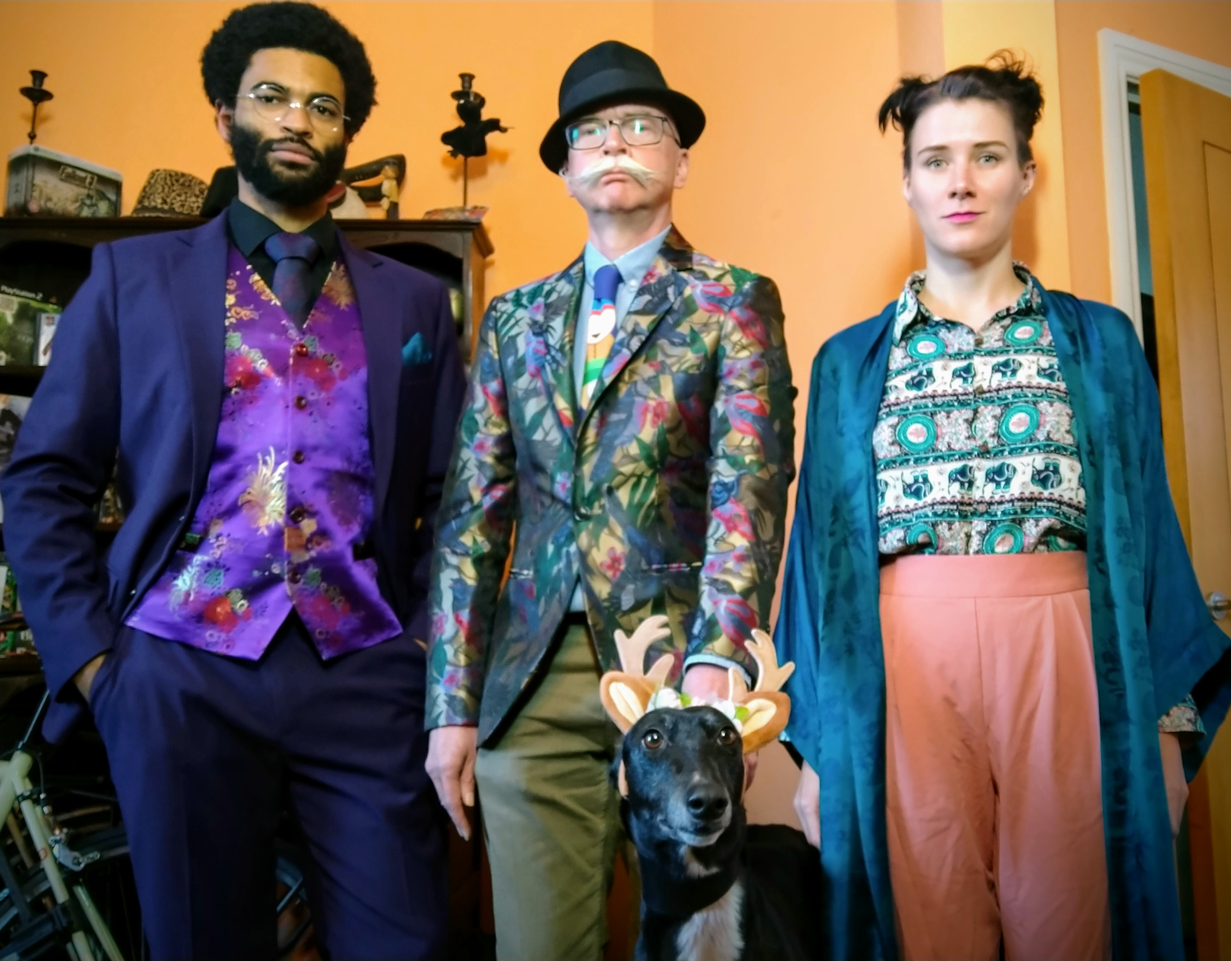
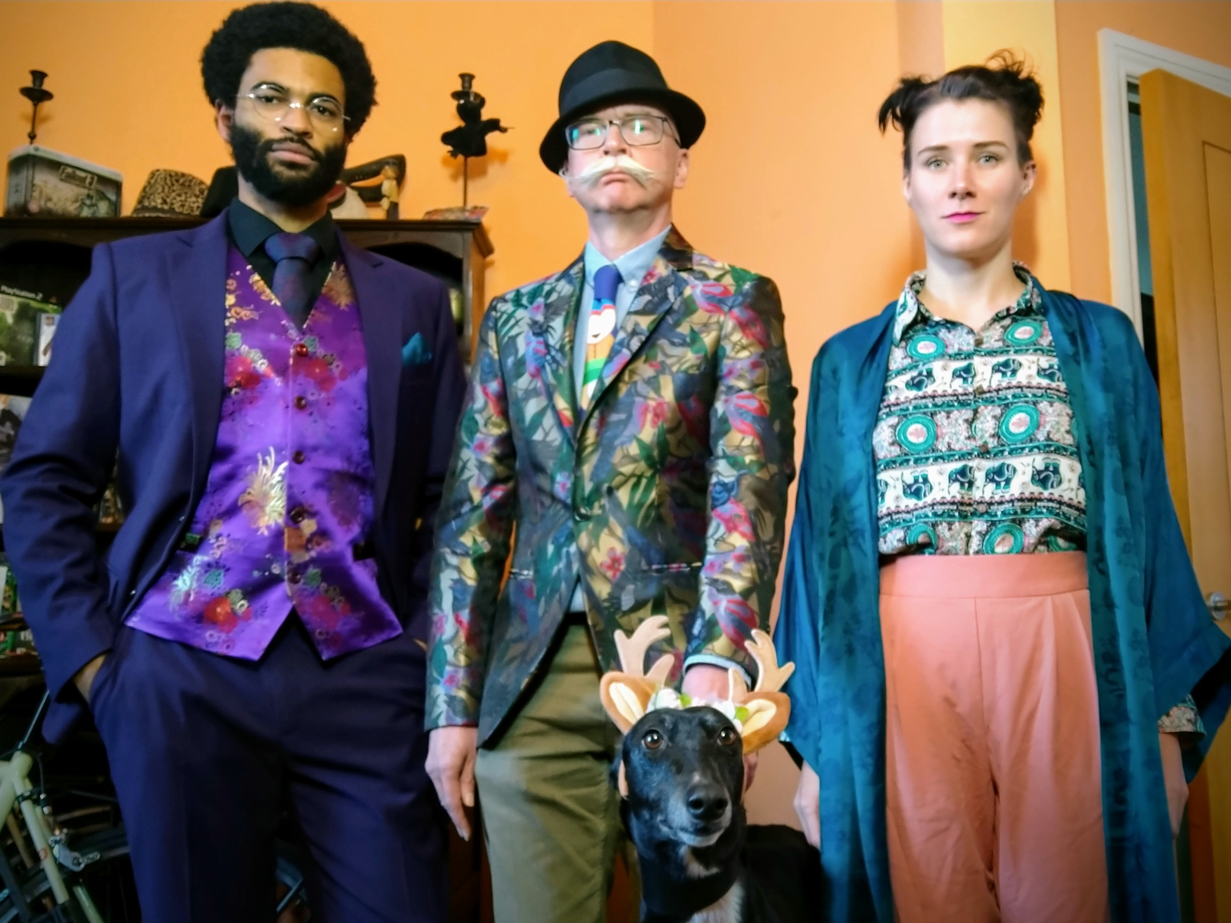
Updated most text
Changed the names of sections and added btter text for each.

diff --git a/index.html b/index.html
@@ -10,9 +10,9 @@
 
     <div id="links-banner">
         <div id="title-box">
-            <h3>Azizi Adeyemo</h3>
+            <h1>Azizi Adeyemo</h1>
             <div class="banner-img-wrapper">
-                <img class="banner-img" src = "imgs-and-docs\IMG_20191101_114843360-COLLAGE.jpg" alt = "Picture of me">
+                <img class="banner-img" src = "imgs-and-docs\IMG_20191101_114843360-COLLAGE - 2.jpg" alt = "Picture of me">
             </div>            
         </div>
         <div id="double-layer">
@@ -58,15 +58,18 @@
     <div class="carousel-wrapper">
         <div id="carusel-text">
             <h2>Who Am I?</h2>
-            <p>I'm an ex teacher excited about science and technology and people. I'm always looking for ways to make the world a more vibrent place </p>
+            <p>I'm an ex physics teacher excited about science, technology and people. I have a knack for problem solving 
+                and enjoy working and spending time with geeks of all varieties. Just to prove that I have a podcast about 
+                video games (<a href="https://www.tastemygameface.com">Taste My Game Face</a>). And I’m also really looking 
+                forward to going climbing when we’re allowed outside again.</p>
         </div>
 
         <div class="carousel">
 
             <img class = "carousel_photo initial" src="imgs-and-docs\Me\2.jpg" alt="#">
+            <img class = "carousel_photo" src="imgs-and-docs\Me\0.jpg" alt="#">
             <img class = "carousel_photo" src="imgs-and-docs\Me\3.jpg" alt="#">
             <img class = "carousel_photo" src="imgs-and-docs\Me\1.jpg" alt="#">
-            <img class = "carousel_photo" src="imgs-and-docs\Me\4.jpg" alt="#">
 
             <div class="carousel_button--next"></div>
             <div class="carousel_button--prev"></div>
@@ -75,20 +78,24 @@
     </div>
 
     <div id="text-box-1">
-        <h2 class="text-box-text">A little about me</h2>
-        <p class="text-box-text"> PLACEHOLDER After 4 years of teaching and one of travel I am looking for a new career where I can better use
-            my problem-solving skills and affinity technical understand. Throughout my degree I found the
-            experience of solving problems with code and computation to be one of the most rewarding
-            aspects of study. I would now like to return to that passion and develop my understanding and
-            ability further, working for a company that will grow and enhance my potential. I am always
-            excited to tackle new problems and I am flexible to the changing situations of a busy work
-            environment.</p>
+        <h2 class="text-box-text">Why I would like to be part of Founders and Coders</h2>
+        <p class="text-box-text"> I was a secondary science teacher for four years. Kids are great but exhausting, 
+            so I knew I’d have to do something else. I’ve always had a passion for tech and problem solving and 
+            reasoned that I could start to learn the dark arts coding whilst traveling around Asia for a few months. 
+            That time gave me a foundation, but I have a lot more to learn.
+        </p>
+        <p class="text-box-text"></p>
+            Founders and Coders is particularly appealing because of the focus on community. I’ve been an educator 
+            and understand the value of helping people achieve. The opportunity to learn in an environment where that 
+            is appreciated is one I’d be grateful to have. Having the chance to help others learn the same skills 
+            afterwards would be even better. 
+        </p>
     </div>
  
     <div class="carousel-wrapper">
         <div id="carusel-text">
-            <h2>Pictuers From Travel</h2>
-            <p>In the last year I've been lucky enough to go traveleing in Asia. These are a few of the pictuers I took</p>
+            <h2>A Few Pictuers From Traveling</h2>
+            <p>In the last year I've been lucky enough to go traveleing in Asia. These are a few of the pictuers I took.</p>
         </div>
 
         <div class="carousel">

diff --git a/style.css b/style.css
@@ -4,7 +4,7 @@ body {
 
 h1 {
     font-family: Calibri;
-    color: linen;
+    color: black;
 }
 h2 {
     font-family: Calibri;
